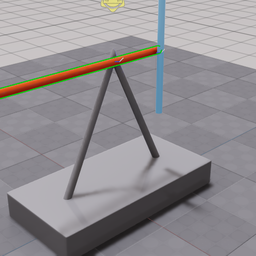
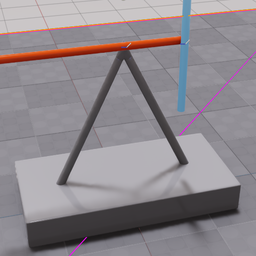
force field

diff --git a/swinging-sticks-exts/exts/swinging.sticks/swinging/sticks/extension.py b/swinging-sticks-exts/exts/swinging.sticks/swinging/sticks/extension.py
@@ -33,8 +33,30 @@ class SwingingSticksExtension(omni.ext.IExt):
         self.stage = omni.usd.get_context().get_stage()
         defaultPrimPath = str(self.stage.GetDefaultPrim().GetPath())
 
+        # set actor 
+        actorPath = defaultPrimPath + "/swing/swing/stick0"
+        self.actorPrim = self.stage.GetPrimAtPath(actorPath)
+        self.actorRigidBodyAPI = UsdPhysics.RigidBodyAPI(self.actorPrim)
+
+
+        # Force
+        forcePrimPath = defaultPrimPath + "/swing/swing" + "/swingForce"
+        forcePrim = self.stage.GetPrimAtPath(forcePrimPath)
+
+        if forcePrim.IsValid(): # delete existing one
+            omni.kit.commands.execute("DeletePrims", paths=[forcePrimPath])
+            
+        forceXform = UsdGeom.Xform.Define(self.stage, forcePrimPath)
+        forceXform.AddTranslateOp().Set(Gf.Vec3f(0.0, 0.0, -1.0))
+        self.forceApi = PhysxSchema.PhysxForceAPI.Apply(forceXform.GetPrim())    
+
         # Trigger
         triggerPath = defaultPrimPath + "/boxTrigger"
+        triggerPrim = self.stage.GetPrimAtPath(triggerPath)
+
+        if triggerPrim.IsValid(): # delete existing one
+            omni.kit.commands.execute("DeletePrims", paths=[triggerPath])
+
         triggerBox = UsdGeom.Cube.Define(self.stage, triggerPath)
         triggerBox.CreateSizeAttr(100)
         triggerBox.AddTranslateOp().Set(Gf.Vec3f(0.0, 0.0, 0.0))
@@ -49,6 +71,7 @@ class SwingingSticksExtension(omni.ext.IExt):
         # timeline
         stream = omni.timeline.get_timeline_interface().get_timeline_event_stream()
         self._timeline_sub = stream.create_subscription_to_pop(self._on_timeline_event)
+
 
     def _on_timeline_event(self, event):
         if event.type == int(omni.timeline.TimelineEventType.PLAY):
@@ -74,11 +97,24 @@ class SwingingSticksExtension(omni.ext.IExt):
         self.triggerCollisions = triggerColliders
         
         if len(triggerColliders) > 0:
-            print("trigger!")
+
             for collision in triggerColliders:
                 usdGeom = UsdGeom.Mesh.Get(self.stage, collision)
                 color = Vt.Vec3fArray([Gf.Vec3f(180.0 / 255.0, 16.0 / 255.0, 0.0)])
-                usdGeom.GetDisplayColorAttr().Set(color)            
+                usdGeom.GetDisplayColorAttr().Set(color)  
+
+                if "stick0" in collision.pathString:
+                    angularVelocityAttribute = self.actorRigidBodyAPI.GetAngularVelocityAttr()   
+                    print("trigger len velocity", len(triggerColliders), angularVelocityAttribute.Get()) 
+
+                    xSpeed = angularVelocityAttribute.Get()[0]
+                    if abs(xSpeed) > 70:
+                        self.forceApi.GetForceEnabledAttr().Set(False)
+                    else:
+                        self.forceApi.GetForceEnabledAttr().Set(True)
+                        forceAttr = self.forceApi.GetForceAttr()
+                        xForce = 10000 if xSpeed > 0 else -10000
+                        forceAttr.Set(value=Gf.Vec3f(xForce, xForce, xForce))      
                
         for collision in list_difference:
             usdGeom = UsdGeom.Mesh.Get(self.stage, collision)
